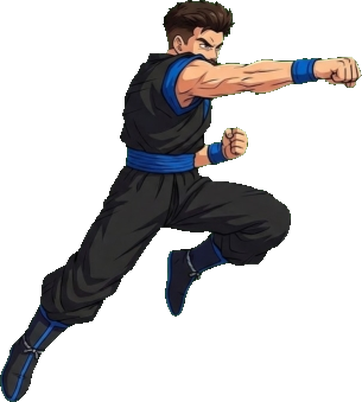
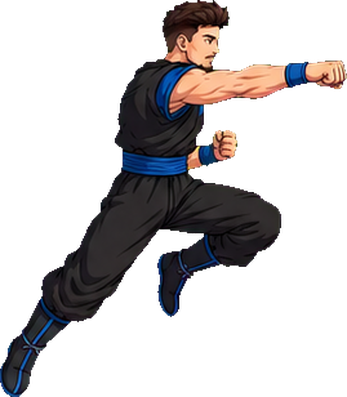
Ajusta poses novas do Quinhas e efeitos de golpe agachado/aéreo.

Changed region(s): [[0.0, 0.0, 1.0, 1.0]]

diff --git a/index.html b/index.html
@@ -2522,10 +2522,10 @@
           fa: "assets/spr/q/fa.webp?v=8",
           ko: "assets/spr/q/ko.webp?v=8",
           vi: "assets/spr/q/vi.webp?v=8",
-          ck: "assets/spr/q/ck.webp?v=5",
-          cp: "assets/spr/q/cp.webp?v=5",
-          ap: "assets/spr/q/ap.webp?v=5",
-          ak: "assets/spr/q/ak.webp?v=5",
+          ck: "assets/spr/q/ck.webp?v=6",
+          cp: "assets/spr/q/cp.webp?v=6",
+          ap: "assets/spr/q/ap.webp?v=6",
+          ak: "assets/spr/q/ak.webp?v=7",
           m: {
             id: { w: 291, h: 418, ax: 151.7 },
             wk: { w: 333, h: 420, ax: 173.2 },
@@ -2540,10 +2540,10 @@
             fa: { w: 420, h: 240, ax: 211.6 },
             ko: { w: 471, h: 112, ax: 235.5 },
             vi: { w: 282, h: 446, ax: 135.5 },
-            ck: { w: 435, h: 280, ax: 105.5 },
-            cp: { w: 429, h: 321, ax: 210.0 },
-            ap: { w: 362, h: 402, ax: 164.5 },
-            ak: { w: 405, h: 323, ax: 99.4 },
+            ck: { w: 411, h: 281, ax: 103.7 },
+            cp: { w: 405, h: 318, ax: 196.0 },
+            ap: { w: 347, h: 397, ax: 158.8 },
+            ak: { w: 426, h: 344, ax: 100.6 },
           },
         },
         r: {
@@ -4332,12 +4332,12 @@
 
       /* s=startup, a=active, n=duração; r=alcance a partir do centro (visual do soco/chute é maior → a cobre a pose) */
       const ATK = {
-        p: { s: 4, a: 9, n: 18, d: 6, r: 158, vr: 110, st: 12, kb: 4, hy: 190 },
+        p: { s: 4, a: 9, n: 18, d: 6, r: 158, vr: 132, st: 12, kb: 4, hy: 190 },
         k: { s: 8, a: 10, n: 30, d: 11, r: 175, st: 18, kb: 8, hy: 165 },
         /* r base; strike usa alcance do sprite (w-ax) quando a pose existe */
-        cp: { s: 3, a: 10, n: 18, d: 5, r: 120, st: 12, kb: 3, hy: 88 },
+        cp: { s: 3, a: 10, n: 18, d: 5, r: 120, vr: 118, st: 12, kb: 3, hy: 128 },
         ck: { s: 5, a: 12, n: 26, d: 9, r: 165, st: 16, kb: 6, hy: 58 },
-        ap: { s: 2, a: 10, n: 16, d: 5, r: 115, st: 10, kb: 3, hy: 140 },
+        ap: { s: 2, a: 10, n: 16, d: 5, r: 115, vr: 108, st: 10, kb: 3, hy: 186 },
         ak: { s: 4, a: 11, n: 22, d: 9, r: 155, st: 14, kb: 6, hy: 115 },
         h: { s: 16, a: 0, n: 38, d: 9, r: 0, st: 16, kb: 6, hy: 135 },
       };
@@ -5013,6 +5013,8 @@
               [20, air ? 10 : 14],
               [30, 0],
             ]);
+            /* chute aéreo: bbox tem o pé em cima — sobe o desenho pra não parecer no chão */
+            ty = air && pz === "ak" ? -36 : 0;
             rot = kf(t, [
               [0, 0],
               [5, -0.09],
@@ -5089,23 +5091,38 @@
           x.translate(this.x, G + this.y);
           x.scale(this.face, 1);
           x.translate(tx, ty);
+          x.rotate(rot);
+          x.scale(sx, sy);
           if (a && this.atk !== "h" && t >= a.s - 3 && t < a.s + a.a + 5) {
-            const p = (t - a.s + 3) / (a.a + 8);
+            const p = (t - a.s + 3) / (a.a + 8),
+              punch =
+                this.atk === "p" || this.atk === "cp" || this.atk === "ap",
+              kick =
+                this.atk === "k" || this.atk === "ck" || this.atk === "ak";
             x.save();
             x.globalAlpha = Math.max(0, 1 - p) * 0.9;
             x.lineCap = "round";
             x.strokeStyle = this.col;
             x.lineWidth = 7;
-            if (this.atk === "p") {
+            if (punch) {
+              const reach = (m.w - m.ax) * sc,
+                y0 = -a.hy,
+                x0 = Math.max(18, reach * 0.22),
+                x1 = reach + 6,
+                vr = a.vr || x1;
               for (let i = 0; i < 3; i++) {
+                const yy = y0 + i * 9 - 6;
                 x.beginPath();
-                x.moveTo(30, -a.hy + i * 10 - 8);
-                x.lineTo(a.vr + 14 - i * 8, -a.hy + i * 10 - 8);
+                x.moveTo(x0, yy);
+                x.lineTo(Math.min(vr, x1) + 8 - i * 6, yy);
                 x.stroke();
               }
-            } else {
+            } else if (kick) {
+              const cy =
+                  this.atk === "ck" ? -70 : this.atk === "ak" ? -120 : -150,
+                rad = this.atk === "ck" ? 88 : this.atk === "ak" ? 100 : 112;
               x.beginPath();
-              x.arc(0, -150, 112, 0.05, 1.05);
+              x.arc(0, cy, rad, 0.05, 1.05);
               x.stroke();
               x.strokeStyle = "#f3e9d2";
               x.lineWidth = 3;
@@ -5113,8 +5130,6 @@
             }
             x.restore();
           }
-          x.rotate(rot);
-          x.scale(sx, sy);
           if (this.atk) {
             x.shadowColor = this.col;
             x.shadowBlur = 20;
